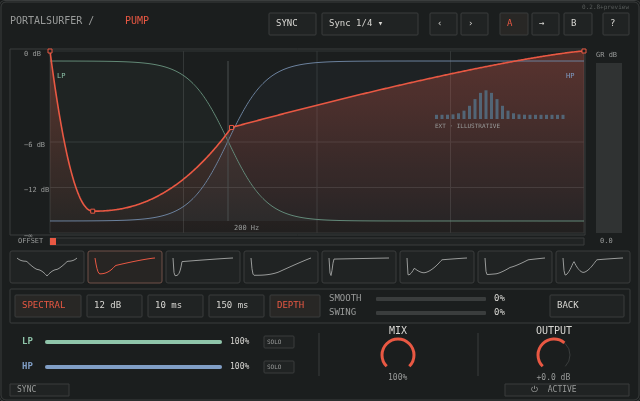
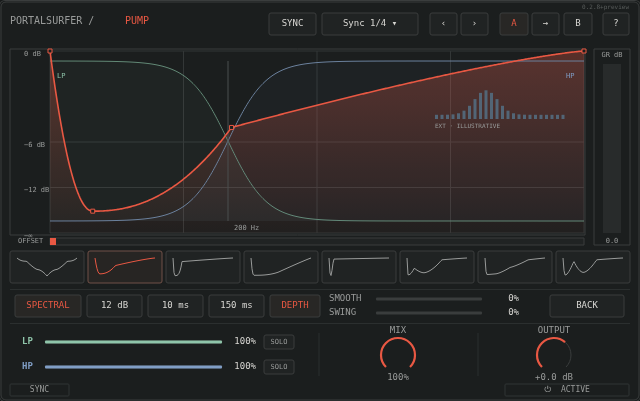
Polish editor alignment, spacing, and control typography

diff --git a/frame-standalone.html b/frame-standalone.html
@@ -90,10 +90,11 @@ button:focus-visible, select:focus-visible { outline: 2px solid #e95843; outline
   const C={bg:'#1b1e1e',panel:'#202323',line:'#3a3d3d',muted:'#999b9a',text:'#d8d7d3',accent:'#e95843',low:'#8fc5aa',blue:'#809ec6'};
   function rect(c,x,y,w,h,r=2,fill=C.panel,stroke=C.line){c.beginPath();c.roundRect(x,y,w,h,r);c.fillStyle=fill;c.fill();if(stroke){c.strokeStyle=stroke;c.lineWidth=1;c.stroke();}}
   function text(c,t,x,y,size=10,color=C.text,weight=400){c.fillStyle=color;c.font=`${weight} ${size}px ui-monospace, SFMono-Regular, monospace`;c.textBaseline='middle';c.fillText(t,x,y);}
-  function button(c,t,x,y,w,active=false){rect(c,x,y,w,22,1,active?'#282725':C.panel);text(c,t,x+7,y+11,9,active?C.accent:C.text);}
-  function knob(c,label,value,x,y,a=0){text(c,label,x-label.length*3,y-24,10);c.strokeStyle=C.line;c.lineWidth=1;c.beginPath();c.arc(x,y,16,.75*Math.PI,2.25*Math.PI);c.stroke();if(a>0){c.strokeStyle=C.accent;c.lineWidth=3;c.beginPath();c.arc(x,y,16,.75*Math.PI,(.75+1.5*a)*Math.PI);c.stroke();}text(c,value,x-value.length*2.5,y+23,8,C.muted);}
-  function slider(c,label,value,x,y,w=282,a=0){text(c,label,x,y,9,C.muted);const tx=x+47,tw=w-80;rect(c,tx,y-2,tw,4,1,C.line,null);if(a>0)rect(c,tx,y-2,tw*a,4,1,C.accent,null);text(c,value,x+w-25,y,9,C.text);}
-  function mixRow(c,label,x,y,value,color,tw=118){text(c,label,x,y,9,color,600);rect(c,x+23,y-2,tw,4,2,'#353838',null);if(value>0)rect(c,x+23,y-2,tw*value,4,2,color,null);text(c,Math.round(value*100)+'%',x+tw+31,y,8);rect(c,x+tw+65,y-6,30,12,1,C.panel);text(c,'SOLO',x+tw+68,y,6,C.muted);}
+  function alignedText(c,t,x,y,size=9,color=C.text,align='center',weight=400){c.save();c.textAlign=align;text(c,t,x,y,size,color,weight);c.restore();}
+  function button(c,t,x,y,w,active=false){rect(c,x,y,w,22,2,active?'#282725':C.panel);alignedText(c,t,x+w/2,y+11,9,active?C.accent:C.text);}
+  function knob(c,label,value,x,y,a=0){alignedText(c,label,x,y-24,9,C.muted);c.strokeStyle=C.line;c.lineWidth=1;c.beginPath();c.arc(x,y,17,.75*Math.PI,2.25*Math.PI);c.stroke();if(a>0){c.strokeStyle=C.accent;c.lineWidth=2.2;c.beginPath();c.arc(x,y,17,.75*Math.PI,(.75+1.5*a)*Math.PI);c.stroke();}alignedText(c,value,x,y+23,9,C.muted);}
+  function slider(c,label,value,x,y,w=282,a=0){text(c,label,x,y,9,C.muted);const tx=x+47,tw=w-84;rect(c,tx,y-1.5,tw,3,1,C.line,null);if(a>0)rect(c,tx,y-1.5,tw*a,3,1,C.accent,null);alignedText(c,value,x+w,y,9,C.text,'right');}
+  function mixRow(c,label,x,y,value,color,tw=118){text(c,label,x,y,9,color,600);rect(c,x+23,y-1.5,tw,3,1,'#353838',null);if(value>0)rect(c,x+23,y-1.5,tw*value,3,1,color,null);alignedText(c,Math.round(value*100)+'%',x+tw+57,y,9,C.text,'right');rect(c,x+tw+65,y-7,30,14,2,C.panel);alignedText(c,'SOLO',x+tw+80,y,7,C.muted);}
   const shapes=[["Sine", [[0.0, 1.0], [0.16, 0.82], [0.34, 0.36], [0.5, 0.0], [0.66, 0.36], [0.84, 0.82], [1.0, 1.0]], [-0.55, -0.1, 0.25, -0.25, 0.1, 0.55]], ["Soft", [[0.0, 1.0], [0.08, 0.12], [0.34, 0.58], [1.0, 1.0]], [-0.35, 0.42, -0.08]], ["Tight", [[0.0, 1.0], [0.035, 0.02], [0.15, 0.8], [1.0, 1.0]], [-0.58, 0.72, -0.04]], ["Long", [[0.0, 1.0], [0.05, 0.04], [0.46, 0.22], [1.0, 1.0]], [-0.48, 0.58, -0.02]], ["Snap", [[0.0, 1.0], [0.012, 0.22], [0.03, 0.0], [0.075, 0.94], [1.0, 1.0]], [-0.08, 0.02, 0.12, 0.0]], ["Punch", [[0.0, 1.0], [0.02, 0.06], [0.12, 0.44], [0.28, 0.18], [0.58, 0.9], [1.0, 1.0]], [-0.52, 0.3, -0.24, 0.22, -0.04]], ["Thump", [[0.0, 1.0], [0.03, 0.08], [0.18, 0.12], [0.42, 0.48], [0.72, 0.9], [1.0, 1.0]], [-0.35, 0.05, 0.12, 0.08, -0.02]], ["Double", [[0.0, 1.0], [0.04, 0.05], [0.18, 0.82], [0.34, 0.2], [0.56, 0.9], [1.0, 1.0]], [-0.48, 0.18, -0.28, 0.2, -0.05]]];
   function sample(shape,x){const n=shape[1],ts=shape[2];let i=0;while(i<n.length-2&&x>n[i+1][0])i++;const l=n[i],r=n[i+1];let t=Math.max(0,Math.min(1,(x-l[0])/(r[0]-l[0])));const tension=ts[i]||0,power=1+Math.abs(tension)*3;t=tension>=0?Math.pow(t,power):1-Math.pow(1-t,power);return l[1]+(r[1]-l[1])*t;}
   function curve(c,shape,x,y,w,h){c.beginPath();for(let i=0;i<=w;i++){const yy=y+(1-sample(shape,i/w))*h;i?c.lineTo(x+i,yy):c.moveTo(x,yy);}c.stroke();}
@@ -116,19 +117,19 @@ button:focus-visible, select:focus-visible { outline: 2px solid #e95843; outline
     crossover(c,x,y,w,h);c.strokeStyle=C.accent;c.lineWidth=1.6;curve(c,shapes[1],x,y,w,h);for(const n of shapes[1][1])rect(c,x+n[0]*w-2,y+(1-n[1])*h-2,4,4,0,C.bg,C.accent);
     for(const [label,level] of [['0 dB',0],['−6 dB',.5],['−12 dB',.75],['−∞',1]])text(c,label,24,y+level*h+3,7,C.muted);
     text(c,'OFFSET',18,240,7,C.muted);rect(c,50,237,534,7,0,C.panel);c.fillStyle=C.accent;c.fillRect(50,237,6,7);
-    text(c,'GR dB',596,54,7,C.muted);rect(c,596,62,26,170,0,'#303333',null);text(c,'0.0',600,240,7,C.muted);
+    rect(c,594,48,36,196,0,C.bg,C.line);alignedText(c,'GR dB',612,54,7,C.muted);rect(c,603,63,18,169,0,'#282b2b',null);alignedText(c,'0.0',612,240,7,C.muted);
     shapes.forEach((s,i)=>{const sx=10+i*78;rect(c,sx,250,74,32,2,i===1?'#272523':C.panel,i===1?'#715048':C.line);c.strokeStyle=i===1?C.accent:C.muted;c.lineWidth=1;curve(c,s,sx+7,257,60,18);});
-    rect(c,10,288,620,34,1,C.bg,C.line);
+    c.strokeStyle='#2b2f2f';c.lineWidth=1;for(const yy of [288.5,322.5]){c.beginPath();c.moveTo(10,yy);c.lineTo(630,yy);c.stroke();}
     if(mode==='dual'){
       button(c,'24 dB/oct',15,294,90);
-      slider(c,'SMOOTH','0%',115,298,212);slider(c,'SWING','0%',115,312,212);button(c,'SPECTRAL',544,294,80);
+      slider(c,'SMOOTH','0%',184,298,270);slider(c,'SWING','0%',184,312,270);button(c,'SPECTRAL',544,294,80);
     }else{
       button(c,'SPECTRAL',15,294,66,true);button(c,'12 dB',87,294,55);button(c,'10 ms',148,294,55);button(c,'150 ms',209,294,55);button(c,'DEPTH',270,294,50,true);slider(c,'SMOOTH','0%',329,298,190);slider(c,'SWING','0%',329,312,190);button(c,'BACK',550,294,74);
       for(let i=0;i<24;i++){const v=.12+.7*Math.exp(-Math.pow((i-9)/3,2));c.fillStyle='#526576';c.fillRect(435+i*5.5,83+35*(1-v),3,35*v);}text(c,'EXT · ILLUSTRATIVE',435,125,6,C.muted);
     }
-    for(const dx of [319,478]){c.strokeStyle=C.line;c.beginPath();c.moveTo(dx,332);c.lineTo(dx,375);c.stroke();}
+    for(const dx of [319,478]){c.strokeStyle='#2b2f2f';c.beginPath();c.moveTo(dx,332);c.lineTo(dx,375);c.stroke();}
     mixRow(c,'LP',22,341,1,C.low,177);mixRow(c,'HP',22,366,1,C.blue,177);knob(c,'MIX','100%',398,354,1);knob(c,'OUTPUT','+0.0 dB',554,354,.65);
-    rect(c,10,383,59,12,0,C.panel);text(c,'SYNC',17,389,8,C.muted);rect(c,505,383,124,12,0,C.panel);text(c,'⏻  ACTIVE',531,389,8,C.muted);
+    rect(c,10,383,59,12,1,C.bg,'#303434');alignedText(c,'SYNC',39.5,389,8,C.muted);rect(c,505,383,124,12,1,C.bg,'#303434');alignedText(c,'⏻  ACTIVE',567,389,8,C.muted);
   }
   Frame.register({id:'pump',name:'Pump · Dual band',width:640,height:400,paint(c){shell(c,'dual');}});
   Frame.register({id:'pump-spectral',name:'Pump · Spectral ducking',width:640,height:400,paint(c){shell(c,'spectral');}});

diff --git a/examples/pump.js b/examples/pump.js
@@ -3,10 +3,11 @@
   const C={bg:'#1b1e1e',panel:'#202323',line:'#3a3d3d',muted:'#999b9a',text:'#d8d7d3',accent:'#e95843',low:'#8fc5aa',blue:'#809ec6'};
   function rect(c,x,y,w,h,r=2,fill=C.panel,stroke=C.line){c.beginPath();c.roundRect(x,y,w,h,r);c.fillStyle=fill;c.fill();if(stroke){c.strokeStyle=stroke;c.lineWidth=1;c.stroke();}}
   function text(c,t,x,y,size=10,color=C.text,weight=400){c.fillStyle=color;c.font=`${weight} ${size}px ui-monospace, SFMono-Regular, monospace`;c.textBaseline='middle';c.fillText(t,x,y);}
-  function button(c,t,x,y,w,active=false){rect(c,x,y,w,22,1,active?'#282725':C.panel);text(c,t,x+7,y+11,9,active?C.accent:C.text);}
-  function knob(c,label,value,x,y,a=0){text(c,label,x-label.length*3,y-24,10);c.strokeStyle=C.line;c.lineWidth=1;c.beginPath();c.arc(x,y,16,.75*Math.PI,2.25*Math.PI);c.stroke();if(a>0){c.strokeStyle=C.accent;c.lineWidth=3;c.beginPath();c.arc(x,y,16,.75*Math.PI,(.75+1.5*a)*Math.PI);c.stroke();}text(c,value,x-value.length*2.5,y+23,8,C.muted);}
-  function slider(c,label,value,x,y,w=282,a=0){text(c,label,x,y,9,C.muted);const tx=x+47,tw=w-80;rect(c,tx,y-2,tw,4,1,C.line,null);if(a>0)rect(c,tx,y-2,tw*a,4,1,C.accent,null);text(c,value,x+w-25,y,9,C.text);}
-  function mixRow(c,label,x,y,value,color,tw=118){text(c,label,x,y,9,color,600);rect(c,x+23,y-2,tw,4,2,'#353838',null);if(value>0)rect(c,x+23,y-2,tw*value,4,2,color,null);text(c,Math.round(value*100)+'%',x+tw+31,y,8);rect(c,x+tw+65,y-6,30,12,1,C.panel);text(c,'SOLO',x+tw+68,y,6,C.muted);}
+  function alignedText(c,t,x,y,size=9,color=C.text,align='center',weight=400){c.save();c.textAlign=align;text(c,t,x,y,size,color,weight);c.restore();}
+  function button(c,t,x,y,w,active=false){rect(c,x,y,w,22,2,active?'#282725':C.panel);alignedText(c,t,x+w/2,y+11,9,active?C.accent:C.text);}
+  function knob(c,label,value,x,y,a=0){alignedText(c,label,x,y-24,9,C.muted);c.strokeStyle=C.line;c.lineWidth=1;c.beginPath();c.arc(x,y,17,.75*Math.PI,2.25*Math.PI);c.stroke();if(a>0){c.strokeStyle=C.accent;c.lineWidth=2.2;c.beginPath();c.arc(x,y,17,.75*Math.PI,(.75+1.5*a)*Math.PI);c.stroke();}alignedText(c,value,x,y+23,9,C.muted);}
+  function slider(c,label,value,x,y,w=282,a=0){text(c,label,x,y,9,C.muted);const tx=x+47,tw=w-84;rect(c,tx,y-1.5,tw,3,1,C.line,null);if(a>0)rect(c,tx,y-1.5,tw*a,3,1,C.accent,null);alignedText(c,value,x+w,y,9,C.text,'right');}
+  function mixRow(c,label,x,y,value,color,tw=118){text(c,label,x,y,9,color,600);rect(c,x+23,y-1.5,tw,3,1,'#353838',null);if(value>0)rect(c,x+23,y-1.5,tw*value,3,1,color,null);alignedText(c,Math.round(value*100)+'%',x+tw+57,y,9,C.text,'right');rect(c,x+tw+65,y-7,30,14,2,C.panel);alignedText(c,'SOLO',x+tw+80,y,7,C.muted);}
   const shapes=[["Sine", [[0.0, 1.0], [0.16, 0.82], [0.34, 0.36], [0.5, 0.0], [0.66, 0.36], [0.84, 0.82], [1.0, 1.0]], [-0.55, -0.1, 0.25, -0.25, 0.1, 0.55]], ["Soft", [[0.0, 1.0], [0.08, 0.12], [0.34, 0.58], [1.0, 1.0]], [-0.35, 0.42, -0.08]], ["Tight", [[0.0, 1.0], [0.035, 0.02], [0.15, 0.8], [1.0, 1.0]], [-0.58, 0.72, -0.04]], ["Long", [[0.0, 1.0], [0.05, 0.04], [0.46, 0.22], [1.0, 1.0]], [-0.48, 0.58, -0.02]], ["Snap", [[0.0, 1.0], [0.012, 0.22], [0.03, 0.0], [0.075, 0.94], [1.0, 1.0]], [-0.08, 0.02, 0.12, 0.0]], ["Punch", [[0.0, 1.0], [0.02, 0.06], [0.12, 0.44], [0.28, 0.18], [0.58, 0.9], [1.0, 1.0]], [-0.52, 0.3, -0.24, 0.22, -0.04]], ["Thump", [[0.0, 1.0], [0.03, 0.08], [0.18, 0.12], [0.42, 0.48], [0.72, 0.9], [1.0, 1.0]], [-0.35, 0.05, 0.12, 0.08, -0.02]], ["Double", [[0.0, 1.0], [0.04, 0.05], [0.18, 0.82], [0.34, 0.2], [0.56, 0.9], [1.0, 1.0]], [-0.48, 0.18, -0.28, 0.2, -0.05]]];
   function sample(shape,x){const n=shape[1],ts=shape[2];let i=0;while(i<n.length-2&&x>n[i+1][0])i++;const l=n[i],r=n[i+1];let t=Math.max(0,Math.min(1,(x-l[0])/(r[0]-l[0])));const tension=ts[i]||0,power=1+Math.abs(tension)*3;t=tension>=0?Math.pow(t,power):1-Math.pow(1-t,power);return l[1]+(r[1]-l[1])*t;}
   function curve(c,shape,x,y,w,h){c.beginPath();for(let i=0;i<=w;i++){const yy=y+(1-sample(shape,i/w))*h;i?c.lineTo(x+i,yy):c.moveTo(x,yy);}c.stroke();}
@@ -29,19 +30,19 @@
     crossover(c,x,y,w,h);c.strokeStyle=C.accent;c.lineWidth=1.6;curve(c,shapes[1],x,y,w,h);for(const n of shapes[1][1])rect(c,x+n[0]*w-2,y+(1-n[1])*h-2,4,4,0,C.bg,C.accent);
     for(const [label,level] of [['0 dB',0],['−6 dB',.5],['−12 dB',.75],['−∞',1]])text(c,label,24,y+level*h+3,7,C.muted);
     text(c,'OFFSET',18,240,7,C.muted);rect(c,50,237,534,7,0,C.panel);c.fillStyle=C.accent;c.fillRect(50,237,6,7);
-    text(c,'GR dB',596,54,7,C.muted);rect(c,596,62,26,170,0,'#303333',null);text(c,'0.0',600,240,7,C.muted);
+    rect(c,594,48,36,196,0,C.bg,C.line);alignedText(c,'GR dB',612,54,7,C.muted);rect(c,603,63,18,169,0,'#282b2b',null);alignedText(c,'0.0',612,240,7,C.muted);
     shapes.forEach((s,i)=>{const sx=10+i*78;rect(c,sx,250,74,32,2,i===1?'#272523':C.panel,i===1?'#715048':C.line);c.strokeStyle=i===1?C.accent:C.muted;c.lineWidth=1;curve(c,s,sx+7,257,60,18);});
-    rect(c,10,288,620,34,1,C.bg,C.line);
+    c.strokeStyle='#2b2f2f';c.lineWidth=1;for(const yy of [288.5,322.5]){c.beginPath();c.moveTo(10,yy);c.lineTo(630,yy);c.stroke();}
     if(mode==='dual'){
       button(c,'24 dB/oct',15,294,90);
-      slider(c,'SMOOTH','0%',115,298,212);slider(c,'SWING','0%',115,312,212);button(c,'SPECTRAL',544,294,80);
+      slider(c,'SMOOTH','0%',184,298,270);slider(c,'SWING','0%',184,312,270);button(c,'SPECTRAL',544,294,80);
     }else{
       button(c,'SPECTRAL',15,294,66,true);button(c,'12 dB',87,294,55);button(c,'10 ms',148,294,55);button(c,'150 ms',209,294,55);button(c,'DEPTH',270,294,50,true);slider(c,'SMOOTH','0%',329,298,190);slider(c,'SWING','0%',329,312,190);button(c,'BACK',550,294,74);
       for(let i=0;i<24;i++){const v=.12+.7*Math.exp(-Math.pow((i-9)/3,2));c.fillStyle='#526576';c.fillRect(435+i*5.5,83+35*(1-v),3,35*v);}text(c,'EXT · ILLUSTRATIVE',435,125,6,C.muted);
     }
-    for(const dx of [319,478]){c.strokeStyle=C.line;c.beginPath();c.moveTo(dx,332);c.lineTo(dx,375);c.stroke();}
+    for(const dx of [319,478]){c.strokeStyle='#2b2f2f';c.beginPath();c.moveTo(dx,332);c.lineTo(dx,375);c.stroke();}
     mixRow(c,'LP',22,341,1,C.low,177);mixRow(c,'HP',22,366,1,C.blue,177);knob(c,'MIX','100%',398,354,1);knob(c,'OUTPUT','+0.0 dB',554,354,.65);
-    rect(c,10,383,59,12,0,C.panel);text(c,'SYNC',17,389,8,C.muted);rect(c,505,383,124,12,0,C.panel);text(c,'⏻  ACTIVE',531,389,8,C.muted);
+    rect(c,10,383,59,12,1,C.bg,'#303434');alignedText(c,'SYNC',39.5,389,8,C.muted);rect(c,505,383,124,12,1,C.bg,'#303434');alignedText(c,'⏻  ACTIVE',567,389,8,C.muted);
   }
   Frame.register({id:'pump',name:'Pump · Dual band',width:640,height:400,paint(c){shell(c,'dual');}});
   Frame.register({id:'pump-spectral',name:'Pump · Spectral ducking',width:640,height:400,paint(c){shell(c,'spectral');}});
